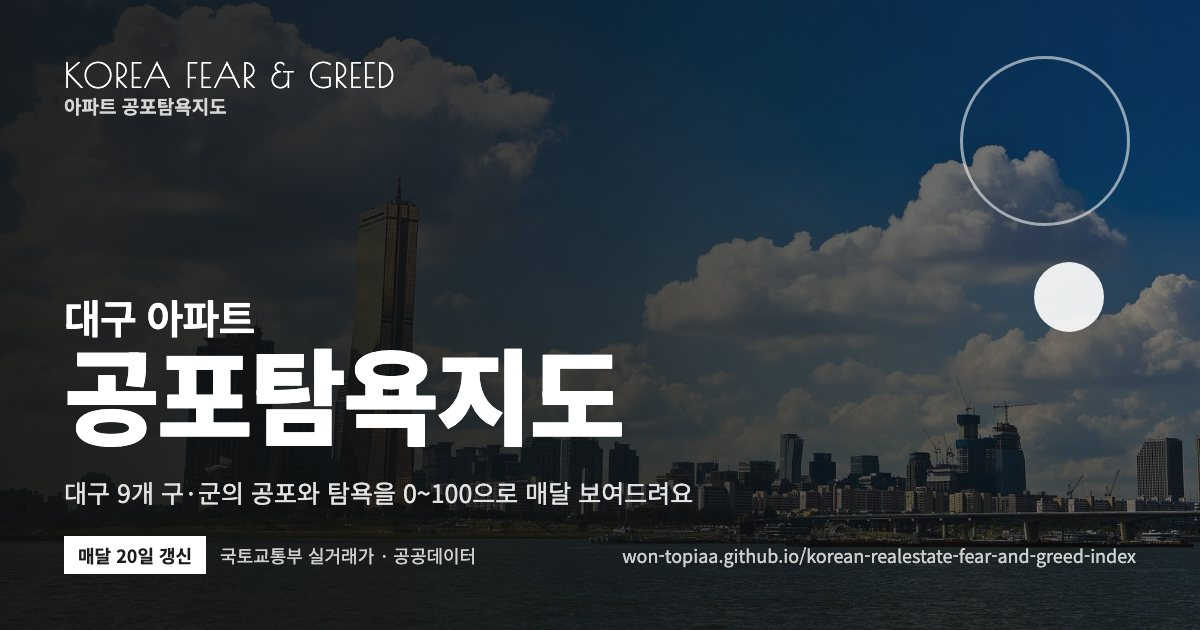
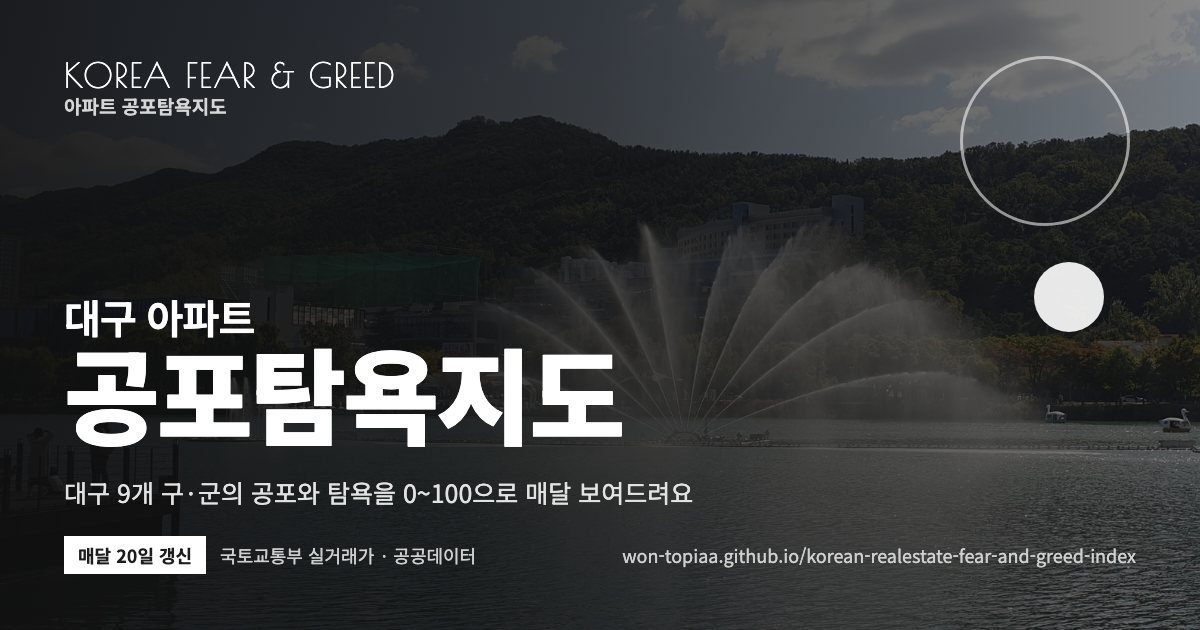
대구 지역 사진: 수성못 (CC0, 작가 본인 표시를 위키텍스트로 확인)
- 대구 페이지가 공개되면 이 사진과 링크 미리보기 그림이 붙음 (지금은 검증 중)

diff --git a/README.md b/README.md
@@ -176,7 +176,7 @@
 ## 겉모습과 쓰기 편하게
 - 여섯 페이지(지도·단지 검색·신고가 단지·모의 투자·보고서·데이터 API)에 같은 겉모습을 입혀요: `assets/skin.css`. Figma 커뮤니티의 'Legacy Homes' 디자인을 참고한 회색 바탕·검정 포인트·아주 굵은 제목·각진 카드와 버튼·검정 원 장식·어두운 바닥글이에요. 페이지 구성과 데이터 색(공포 파랑·탐욕 빨강)은 그대로예요.
 - 머리글 메뉴, 첫 화면 사진 띠(페이지 사진을 어둡게 깐 화면 폭 배경, 글자는 흰색), 바닥글은 `site_build.py`가 사이트를 만들 때 끼워 넣어요(원래 템플릿은 그대로). 사진은 인라인 배경으로 넣어요(CSS 변수로 넘기면 주소가 스타일 파일 기준이 돼 최상위 페이지에서 틀어져요). 단지 검색·모의 투자는 검색 전(`body.sk-intro`)에는 그 페이지 사진 한 장을 화면 전체 배경으로 은은하게 깔고, 결과 칸이 보이면 위 띠·아래 바닥글 사진으로 돌아가요. 사진·스타일 주소에는 내용 지문(`?v=`)을 붙여 바꾸면 바로 새 파일이 보여요.
-- 사진은 모두 위키미디어 공용의 **CC0·퍼블릭 도메인**(저작권 없음) 대형 건물 사진이라 출처 표기 의무가 없지만, 바닥글과 `assets/img/credits.json`에 출처를 적어 뒀어요: 63빌딩(USAGI_POST), 롯데월드타워 낮·야경(mauveine.kim), 여의도 스카이라인(pixabay @heecheol890102), 롯데월드타워 불꽃놀이(HyunJae Park), 송파 석촌호수 노을(cmmellow). 지역 페이지: 부산 광안대교(lumoplank), 인천 송도(Hon Kim, Unsplash CC0), 경기 수원 화성 동장대(Bernard Gagnon), 광주 시내(Dohuskor, PD-self), 대전 야경(Bernard Gagnon). 울산은 조건에 맞는 사진이 없고 대구는 퍼블릭 도메인 여부가 확실하지 않아 서울 사진을 써요(`bg-{지역}.jpg`가 있으면 그 사진).
+- 사진은 모두 위키미디어 공용의 **CC0·퍼블릭 도메인**(저작권 없음) 대형 건물 사진이라 출처 표기 의무가 없지만, 바닥글과 `assets/img/credits.json`에 출처를 적어 뒀어요: 63빌딩(USAGI_POST), 롯데월드타워 낮·야경(mauveine.kim), 여의도 스카이라인(pixabay @heecheol890102), 롯데월드타워 불꽃놀이(HyunJae Park), 송파 석촌호수 노을(cmmellow). 지역 페이지: 부산 광안대교(lumoplank), 인천 송도(Hon Kim, Unsplash CC0), 경기 수원 화성 동장대(Bernard Gagnon), 광주 시내(Dohuskor, PD-self), 대전 야경(Bernard Gagnon). 대구 수성못(Choi2451). 울산은 조건에 맞는 사진이 없어 서울 사진을 써요(`bg-{지역}.jpg`가 있으면 그 사진).
 - 링크 미리보기(카카오톡·문자·SNS): 페이지마다 1200×630 그림 `assets/og/*.jpg`(사이트와 같은 사진 띠 + 로고 + 두 단 제목, `python og_build.py`로 헤드리스 Chrome에서 만듦)과 og·twitter 메타 태그를 `site_build.py`가 넣어요.
 - 상단 메뉴: 지도 · 단지 검색 · 신고가 단지 · 모의 투자. 보고서와 문의(wontopiaaa@gmail.com, 메일 링크)는 바닥글에. 로고 아래 한글 이름, '화면 밝기' 이름표, 휴대폰은 머리글 2줄(화면 밝기는 버튼 하나로 자동→밝게→어둡게).
 - 휴대폰(600px 이하)은 꼭 필요한 정보 위주: 공통 클래스 `.m-hide`(숨김)·`.m-only`(휴대폰에서만)·`.m-fold`(접고 버튼으로 펼침). 지도는 사용법·시기 바로가기·권역 게이지 6개·추이 설명·표 보기를 숨기고 지표 구성·순위와 계산 방법은 접음, 단지 검색은 핵심 정보 4개(세대수·입주·용적률·최고층) 먼저, 신고가는 구 상위 8곳·목록 20건씩·표는 단지·거래가·오른 폭, 모의 투자 비교 표는 단지·수익률·연평균, 보고서는 첫 절만 펴고 나머지 15개 절은 제목 버튼으로 접음(펼칠 때 그래프 다시 그림). 휴대폰 페이지 길이: 지도 약 5,000→3,200px, 신고가 9,800→5,500px, 보고서 20,500→6,200px. 컴퓨터 화면은 그대로.
@@ -276,4 +276,4 @@ python -m venv .venv && .venv/bin/pip install -r requirements.txt
 - 전세가율 (전월세 실거래 API 활용신청 필요)
 - 실시간 검증 기록 쌓기 (첫 채점은 2028년 하반기 예상)
 - 협업 검토: KB 자료 이용 조건 확인, 또는 협업 상대의 매물·호가 자료로 KB 설문 대체
-- 수도권·광역시: 실거래를 다 받으면 검증용 5개 지역으로 대안 비교 → 공개 여부 결정, 울산·대구 대표 사진(CC0 찾는 중)
+- 수도권·광역시: 실거래를 다 받으면 검증용 5개 지역으로 대안 비교 → 공개 여부 결정, 울산 대표 사진(CC0 찾는 중)
